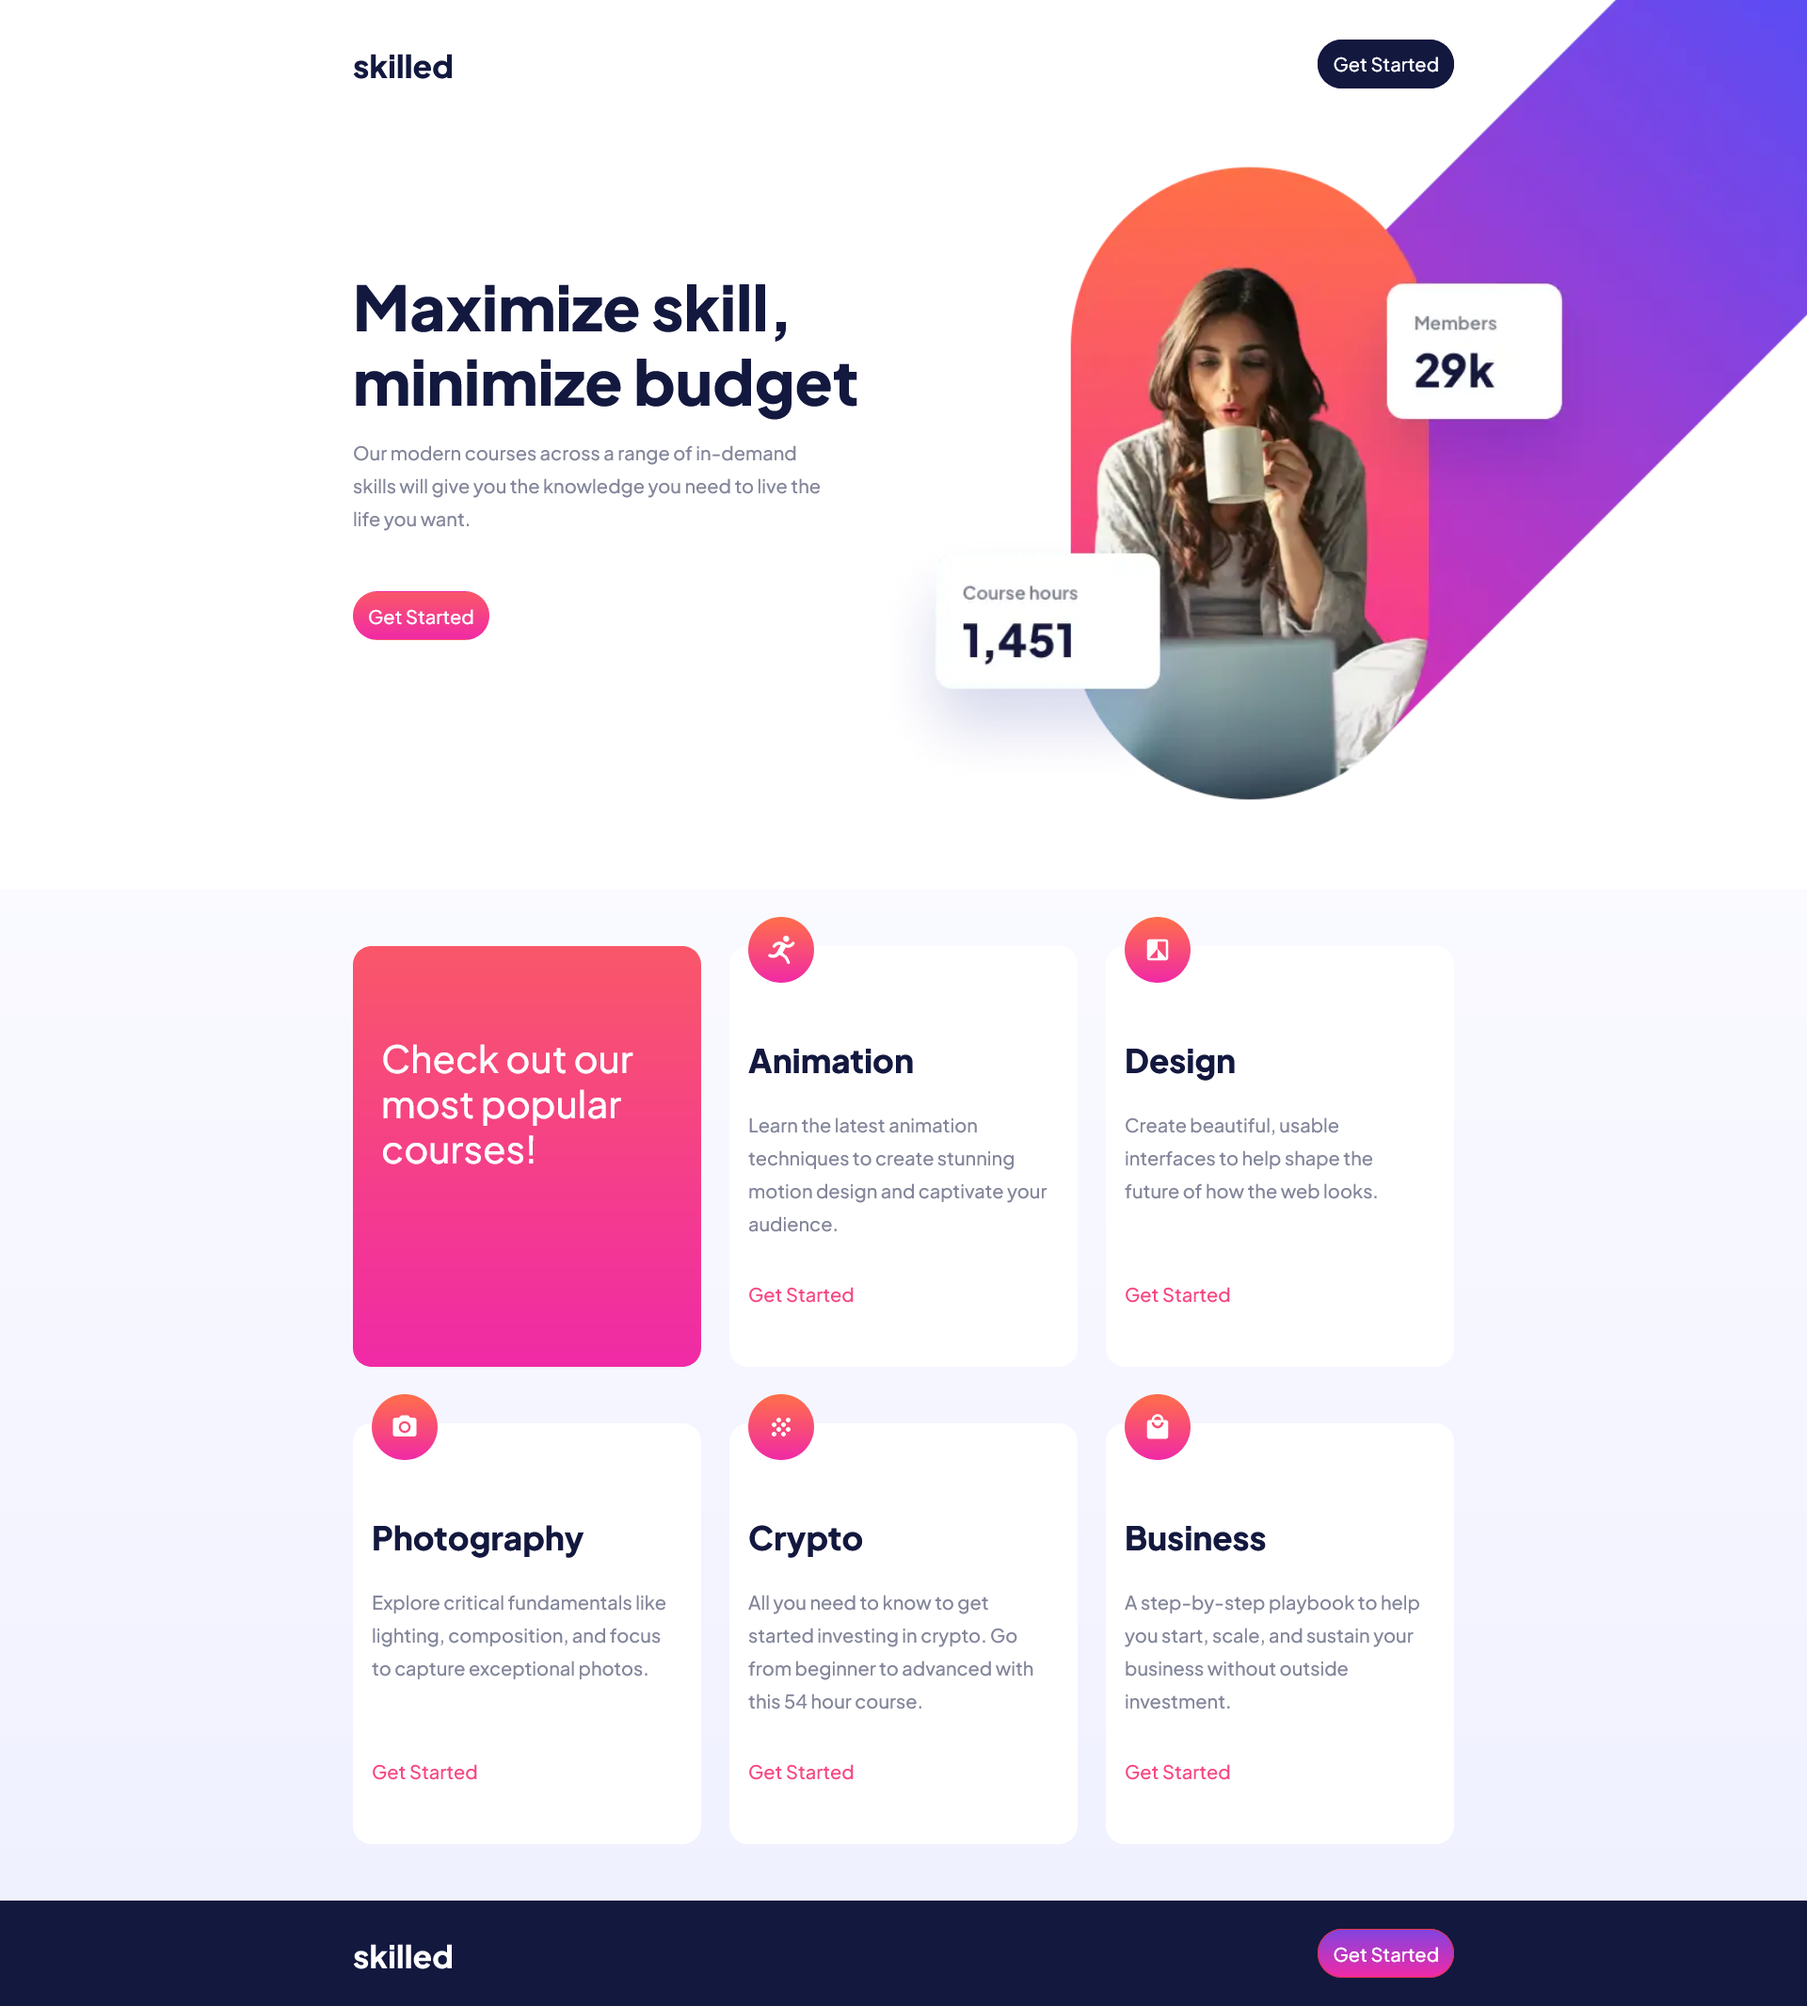
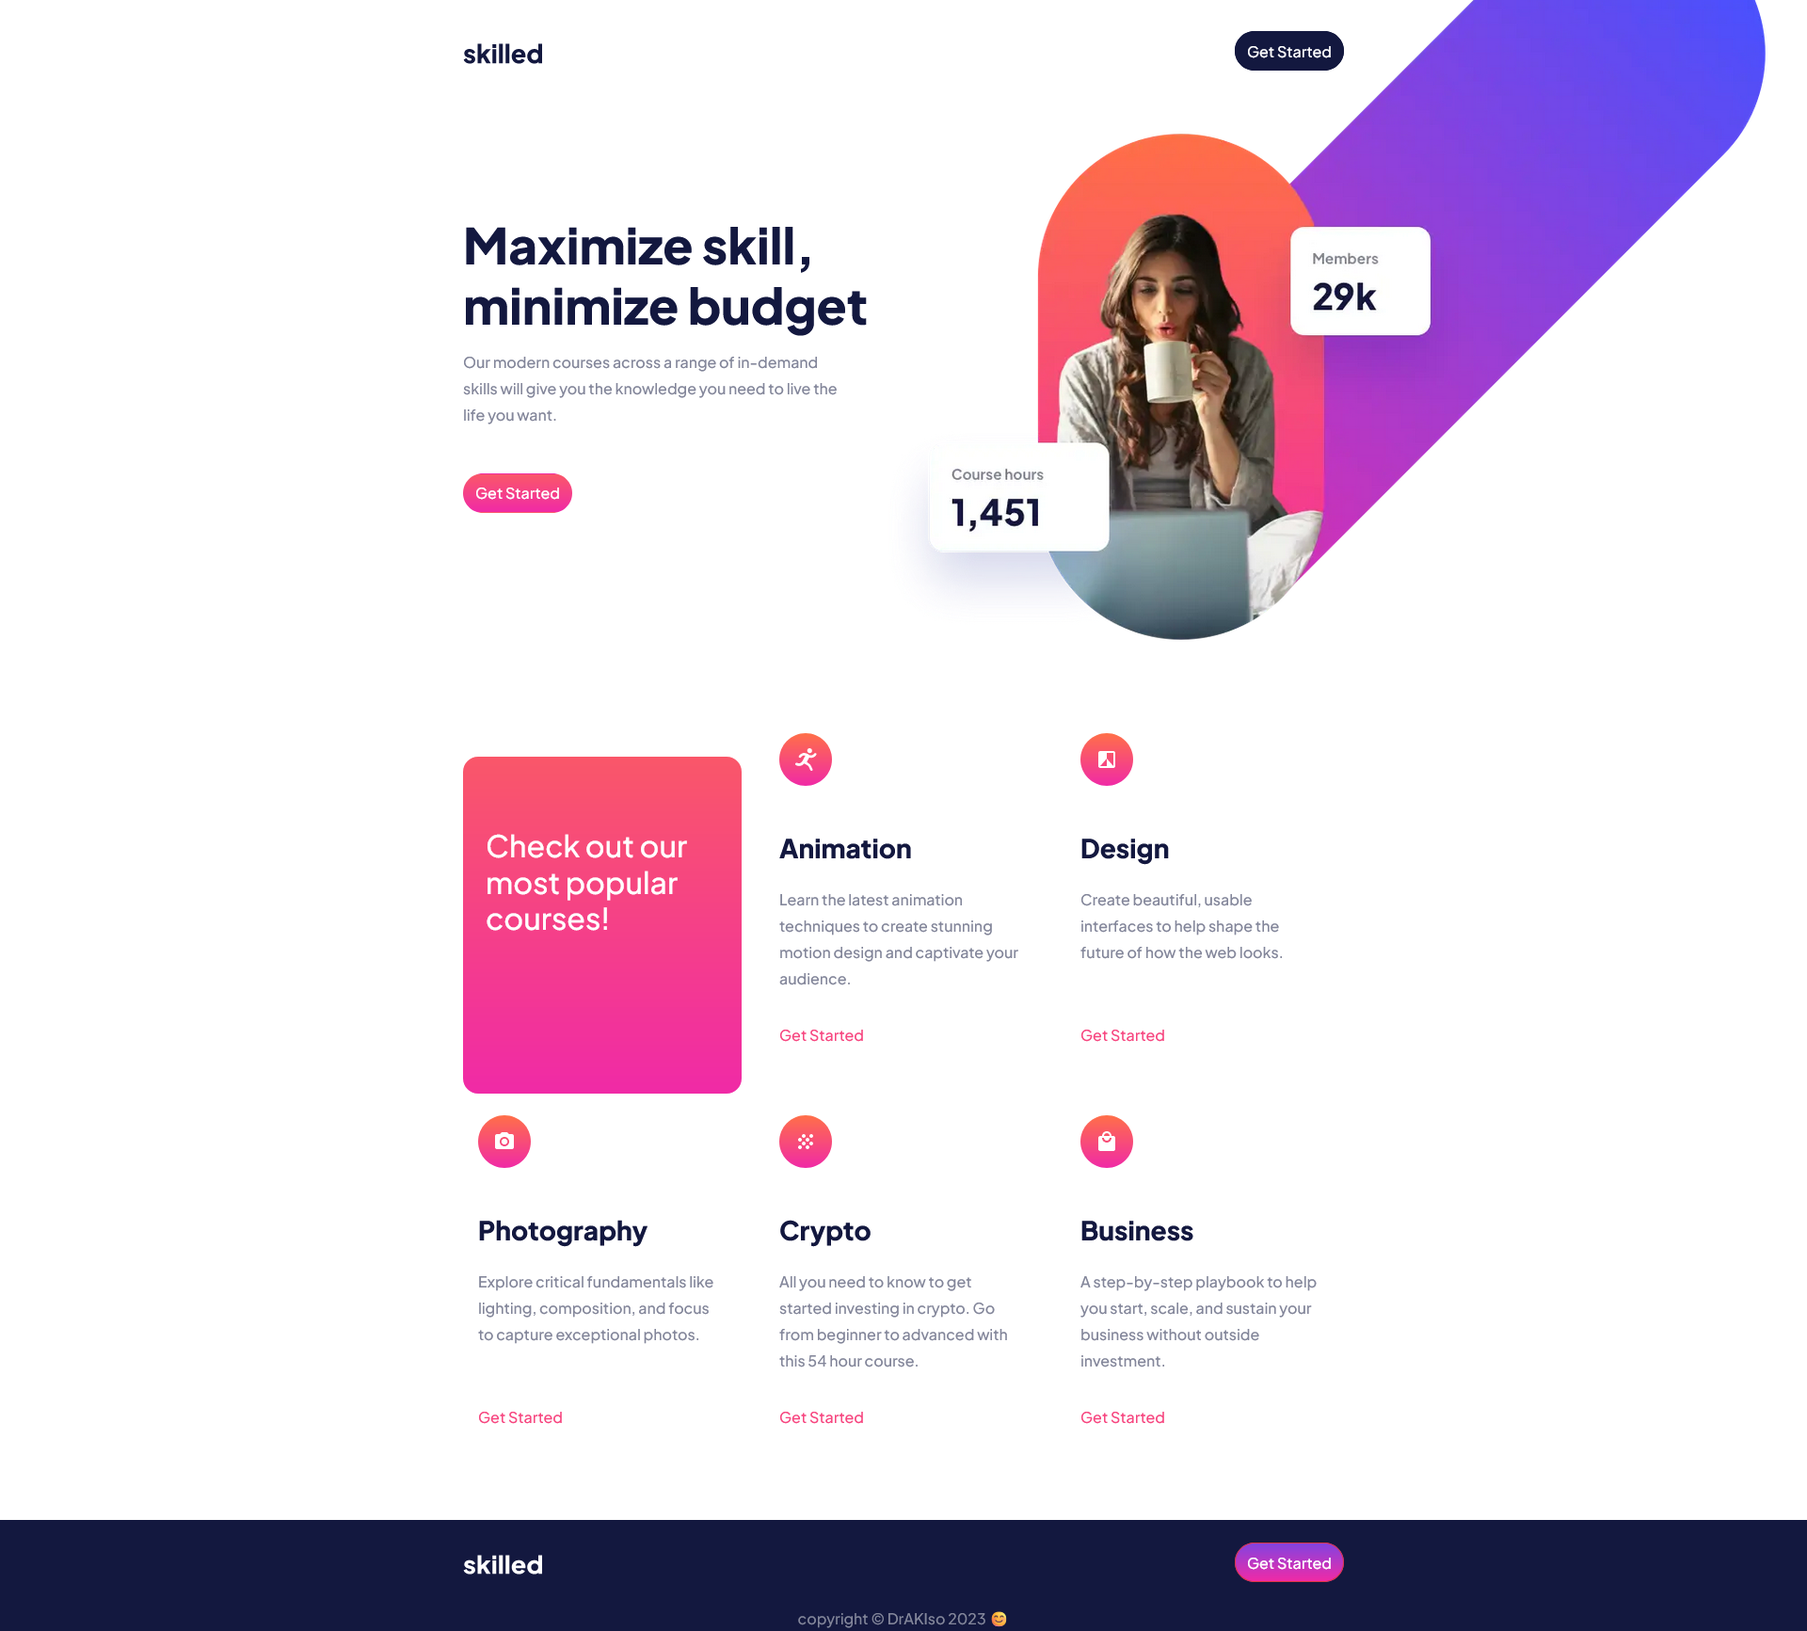
add copyrigth and modified background-color on body

diff --git a/index.html b/index.html
@@ -17,7 +17,7 @@
         <link href="./css/style.css" rel="stylesheet">
     </head>
     
-    <body>
+    <body class="">
         <div class="text-body lh-base position-relative overflow-hidden">
             
         <header class="">
@@ -66,7 +66,7 @@
         </section>
 
         <!-- services -->
-        <section class="py-5 bg-gradient-1">
+        <section class="py-5">
             <div class="container">
                 <div class="row row-cols-md-2 row-cols-xl-3 gy-5">
 
@@ -165,6 +165,9 @@
                     <a class="btn btn-danger rounded-pill bg-gradient-3" href="#" 
                     role="button">Get Started</a>
                 </div>
+            </div>
+            <div class="fs-1-sm text-center">
+                copyright © DrAKIso 2023 😊
             </div>
 
             <!-- Bootstrap JS bundle -->
